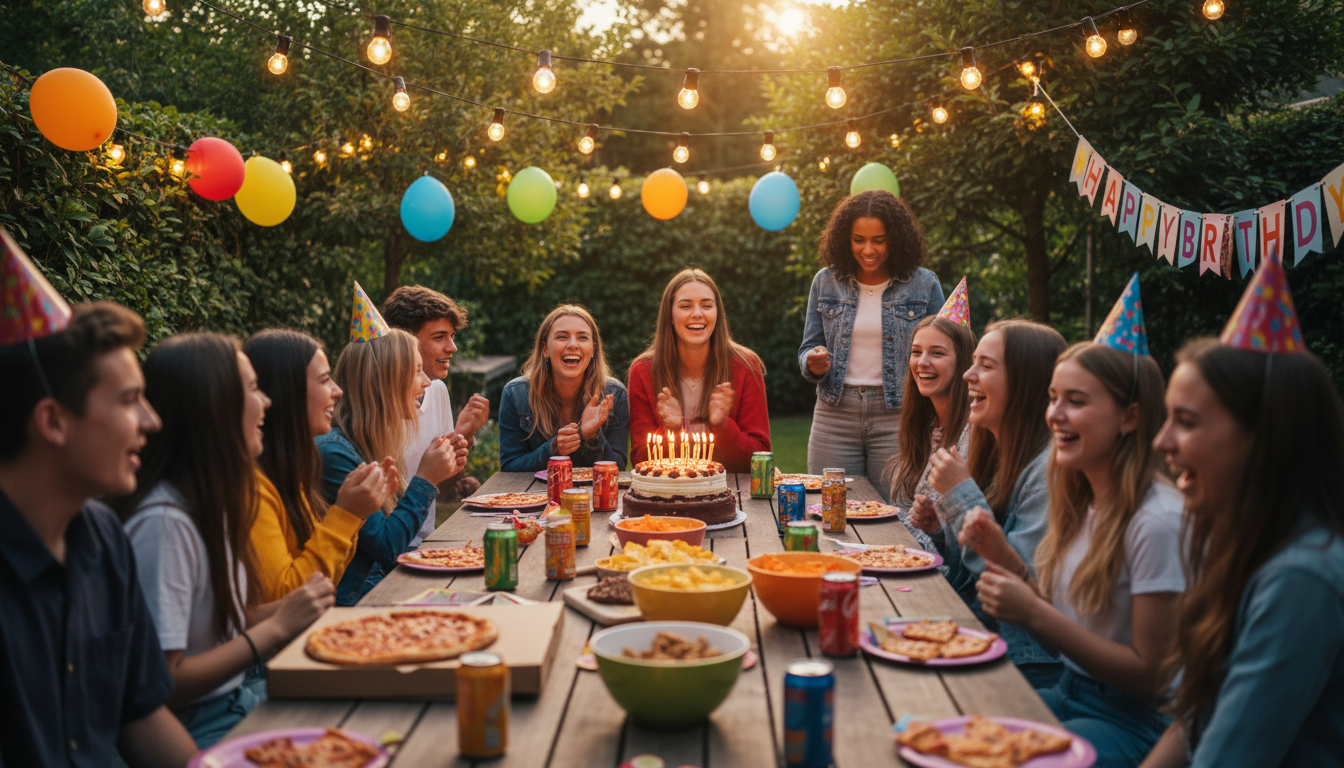
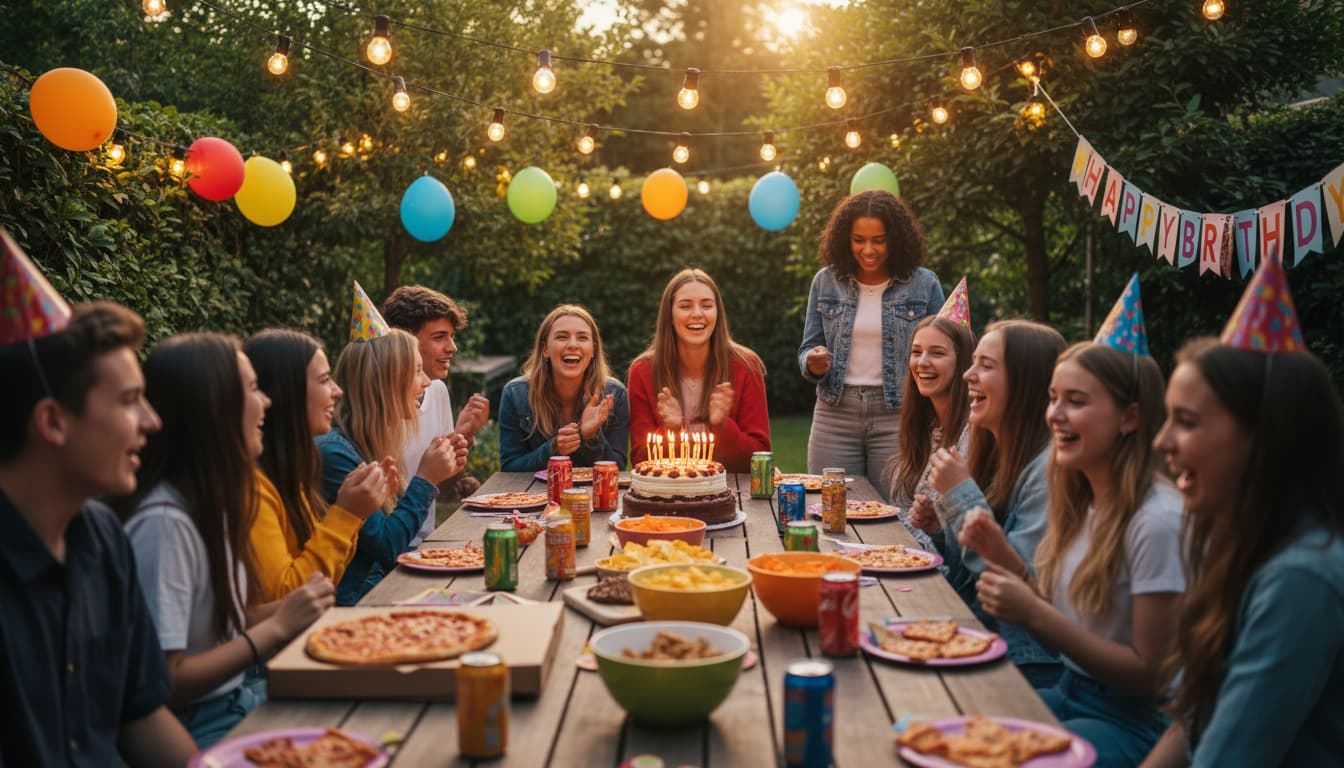
imagenes reducidas de tamaño

Changed region(s): [[0.4688, 0.5625, 0.5312, 0.625], [0.8438, 0.25, 0.875, 0.3125], [0.0625, 0.1875, 0.0938, 0.25]]

diff --git a/frontend/src/index.html b/frontend/src/index.html
@@ -2,7 +2,7 @@
 <html lang="en">
 <head>
   <meta charset="utf-8">
-  <title>TRKA | EVENTS</title>
+  <title>TRKA | EVENTOS</title>
   <base href="/">
   <meta name="viewport" content="width=device-width, initial-scale=1">
   <link rel="icon" type="image/x-icon" href="../logo.ico">
